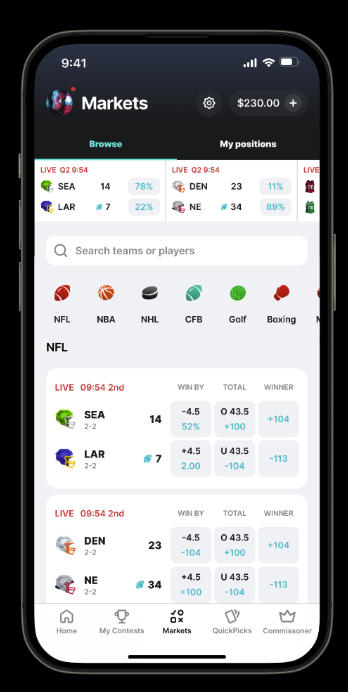
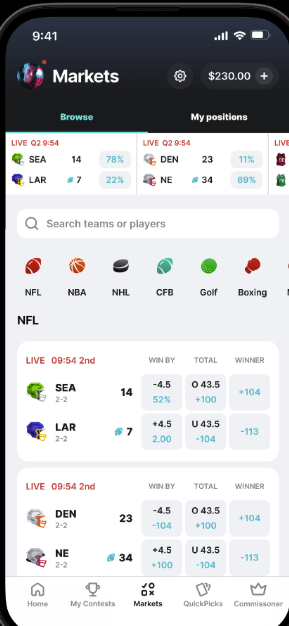
Crop screenshots to screen content + uniform CSS phone frame across all three

diff --git a/nfl_survivor_landing.html b/nfl_survivor_landing.html
@@ -339,18 +339,34 @@
 
   .predictions-grid { display: grid; grid-template-columns: repeat(3, 1fr); gap: 28px; margin-top: 16px; }
   @media (max-width: 920px) { .predictions-grid { grid-template-columns: 1fr; max-width: 380px; margin-left: auto; margin-right: auto; } }
-  .pred-card { margin: 0; display: flex; flex-direction: column; }
-  .pred-screen {
+  .pred-card { margin: 0; display: flex; flex-direction: column; align-items: center; }
+  .pred-phone {
     position: relative;
-    aspect-ratio: 9 / 16;
-    border-radius: 28px;
-    background: linear-gradient(180deg, #15171c 0%, #0a0a0c 100%);
-    border: 1px solid rgba(255,255,255,.08);
-    box-shadow: 0 30px 60px rgba(0,0,0,.5);
-    overflow: hidden;
-    margin-bottom: 18px;
+    width: 100%;
+    max-width: 280px;
+    aspect-ratio: 9 / 19.5;
+    background: #0a0a0c;
+    border-radius: 38px;
+    padding: 8px;
+    box-shadow:
+      0 0 0 1.5px #2a2c33 inset,
+      0 30px 60px rgba(0,0,0,.5),
+      0 8px 20px rgba(0,0,0,.3);
+    margin-bottom: 22px;
   }
-  .pred-screen img { display: block; width: 100%; height: 100%; object-fit: cover; }
+  .pred-phone-screen {
+    position: relative;
+    width: 100%; height: 100%;
+    border-radius: 30px;
+    overflow: hidden;
+    background: #000;
+  }
+  .pred-phone-screen img {
+    display: block;
+    width: 100%; height: 100%;
+    object-fit: cover;
+    object-position: top center;
+  }
   .pred-screen .pred-fallback { position: absolute; inset: 0; padding: 28px 22px; display: none; flex-direction: column; color: #fff; }
   .pred-screen.fallback .pred-fallback { display: flex; }
   .pred-fallback .pf-bar { width: 80px; height: 4px; border-radius: 2px; background: rgba(255,255,255,.18); margin: 0 auto 16px; }
@@ -744,63 +760,27 @@
 
     <div class="predictions-grid">
       <figure class="pred-card">
-        <div class="pred-screen">
-          <img src="assets/predictions-hedge.png" alt="Splash app — hedge prompt: trade Miami to win, $1,000 → $4,912" onerror="this.style.display='none'; this.parentElement.classList.add('fallback');" />
-          <div class="pred-fallback">
-            <div class="pf-bar"></div>
-            <div class="pf-title">YOUR ENTRY VALUE IS</div>
-            <div class="pf-amt">$10,254</div>
-            <div class="pf-sep">MAKE SURE YOU WIN, EITHER WAY</div>
-            <div class="pf-team">
-              <img src="https://a.espncdn.com/i/teamlogos/nfl/500/mia.png" alt="" />
-            </div>
-            <div class="pf-q">WANT TO HEDGE?</div>
-            <div class="pf-action">Miami to win<br/><span class="pf-price">$1,000 → <strong>$4,912</strong></span></div>
+        <div class="pred-phone">
+          <div class="pred-phone-screen">
+            <img src="assets/predictions-hedge.png" alt="Splash app — hedge prompt: trade Miami to win, $1,000 → $4,912" />
           </div>
         </div>
         <figcaption><strong>Hedge live during the season.</strong> Splash detects your entry's value and lets you lock in a winning outcome via Polymarket markets — without leaving the app.</figcaption>
       </figure>
 
       <figure class="pred-card">
-        <div class="pred-screen">
-          <img src="assets/predictions-markets.png" alt="Splash Markets browse — NFL, NBA, NHL, CFB, Golf, Boxing" onerror="this.style.display='none'; this.parentElement.classList.add('fallback');" />
-          <div class="pred-fallback alt">
-            <div class="pf-bar"></div>
-            <div class="pf-title small">Markets</div>
-            <div class="pf-tabs"><span>NFL</span><span>NBA</span><span>NHL</span><span>CFB</span><span>Golf</span></div>
-            <div class="pf-mkt">
-              <div class="pf-mkt-row"><span class="pf-team-sm">SEA</span><span>14</span><span class="pf-pct">76%</span></div>
-              <div class="pf-mkt-row"><span class="pf-team-sm">LAR</span><span>#7</span><span class="pf-pct">22%</span></div>
-            </div>
-            <div class="pf-mkt">
-              <div class="pf-mkt-row"><span class="pf-team-sm">DEN</span><span>23</span><span class="pf-pct">11%</span></div>
-              <div class="pf-mkt-row"><span class="pf-team-sm">NE</span><span>#34</span><span class="pf-pct">88%</span></div>
-            </div>
+        <div class="pred-phone">
+          <div class="pred-phone-screen">
+            <img src="assets/predictions-markets.png" alt="Splash Markets browse — NFL, NBA, NHL, CFB, Golf, Boxing" />
           </div>
         </div>
         <figcaption><strong>Trade any market, any time.</strong> Real-time NFL futures, game lines, props — all in one feed. Powered by Polymarket liquidity.</figcaption>
       </figure>
 
       <figure class="pred-card">
-        <div class="pred-screen">
-          <img src="assets/predictions-game.png" alt="NE vs SEA live game view with price chart and game lines" onerror="this.style.display='none'; this.parentElement.classList.add('fallback');" />
-          <div class="pred-fallback alt2">
-            <div class="pf-bar"></div>
-            <div class="pf-game-head">
-              <span class="pf-team-sm">NE</span>
-              <span class="pf-vs">Tomorrow<br/>6:30 PM</span>
-              <span class="pf-team-sm">SEA</span>
-            </div>
-            <div class="pf-chart">
-              <svg viewBox="0 0 200 80" preserveAspectRatio="none">
-                <path d="M0,60 Q40,40 60,45 T120,30 T200,18" fill="none" stroke="#4ade80" stroke-width="2"/>
-                <path d="M0,20 Q40,40 60,35 T120,50 T200,62" fill="none" stroke="#f87171" stroke-width="2"/>
-              </svg>
-            </div>
-            <div class="pf-buttons">
-              <span class="pf-btn red">NE TO WIN<br/>20%</span>
-              <span class="pf-btn green">SEA TO WIN<br/>80%</span>
-            </div>
+        <div class="pred-phone">
+          <div class="pred-phone-screen">
+            <img src="assets/predictions-game.png" alt="NE vs SEA live game view with price chart and game lines" />
           </div>
         </div>
         <figcaption><strong>Double down on what you believe.</strong> Live odds update through every snap. Convert insight into a position the moment you see it.</figcaption>